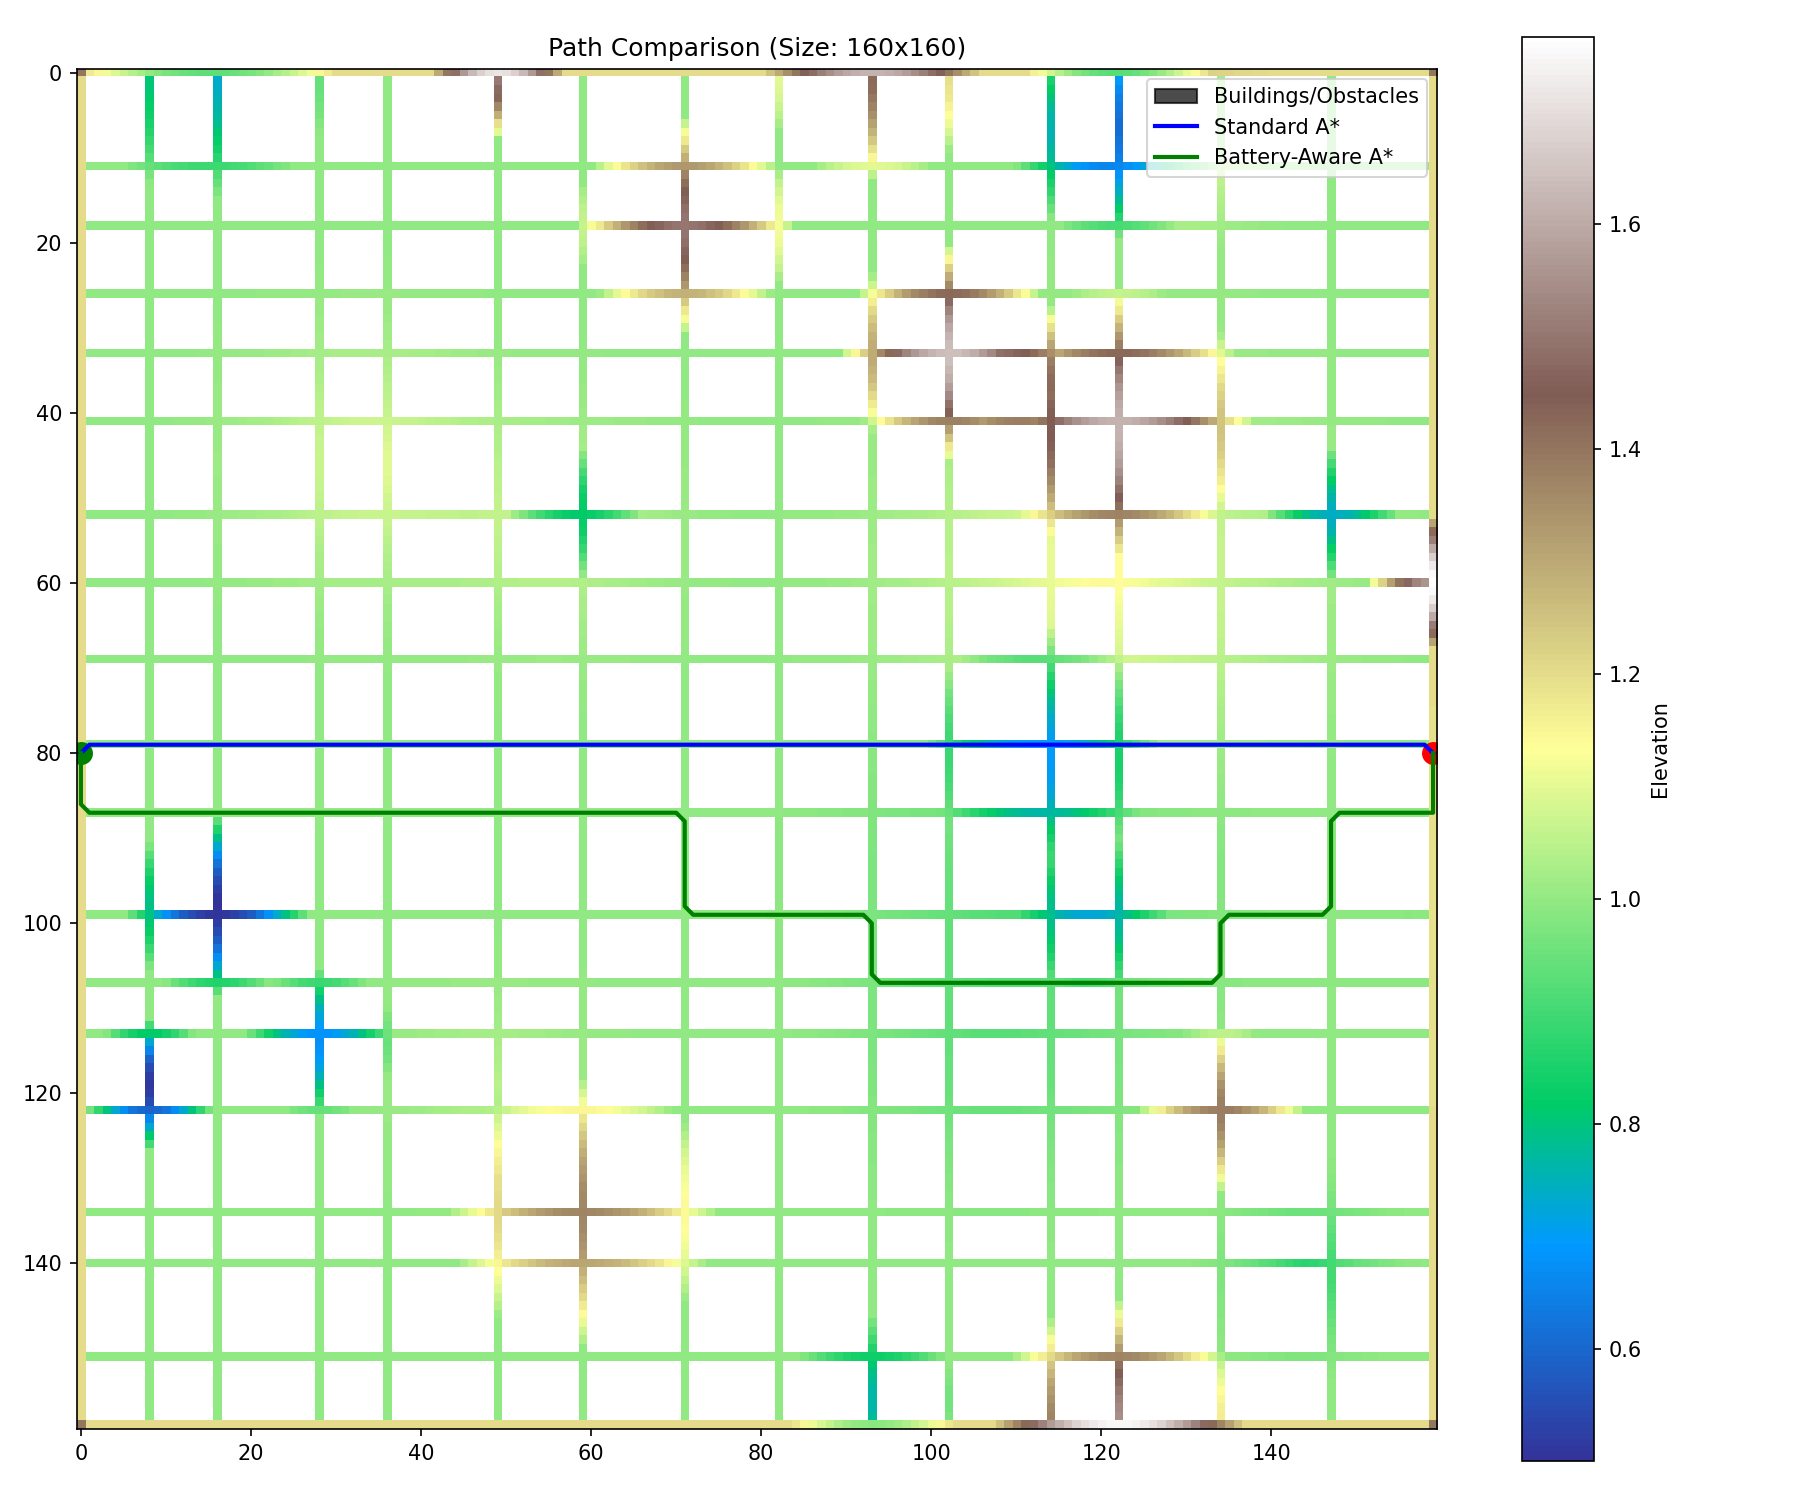
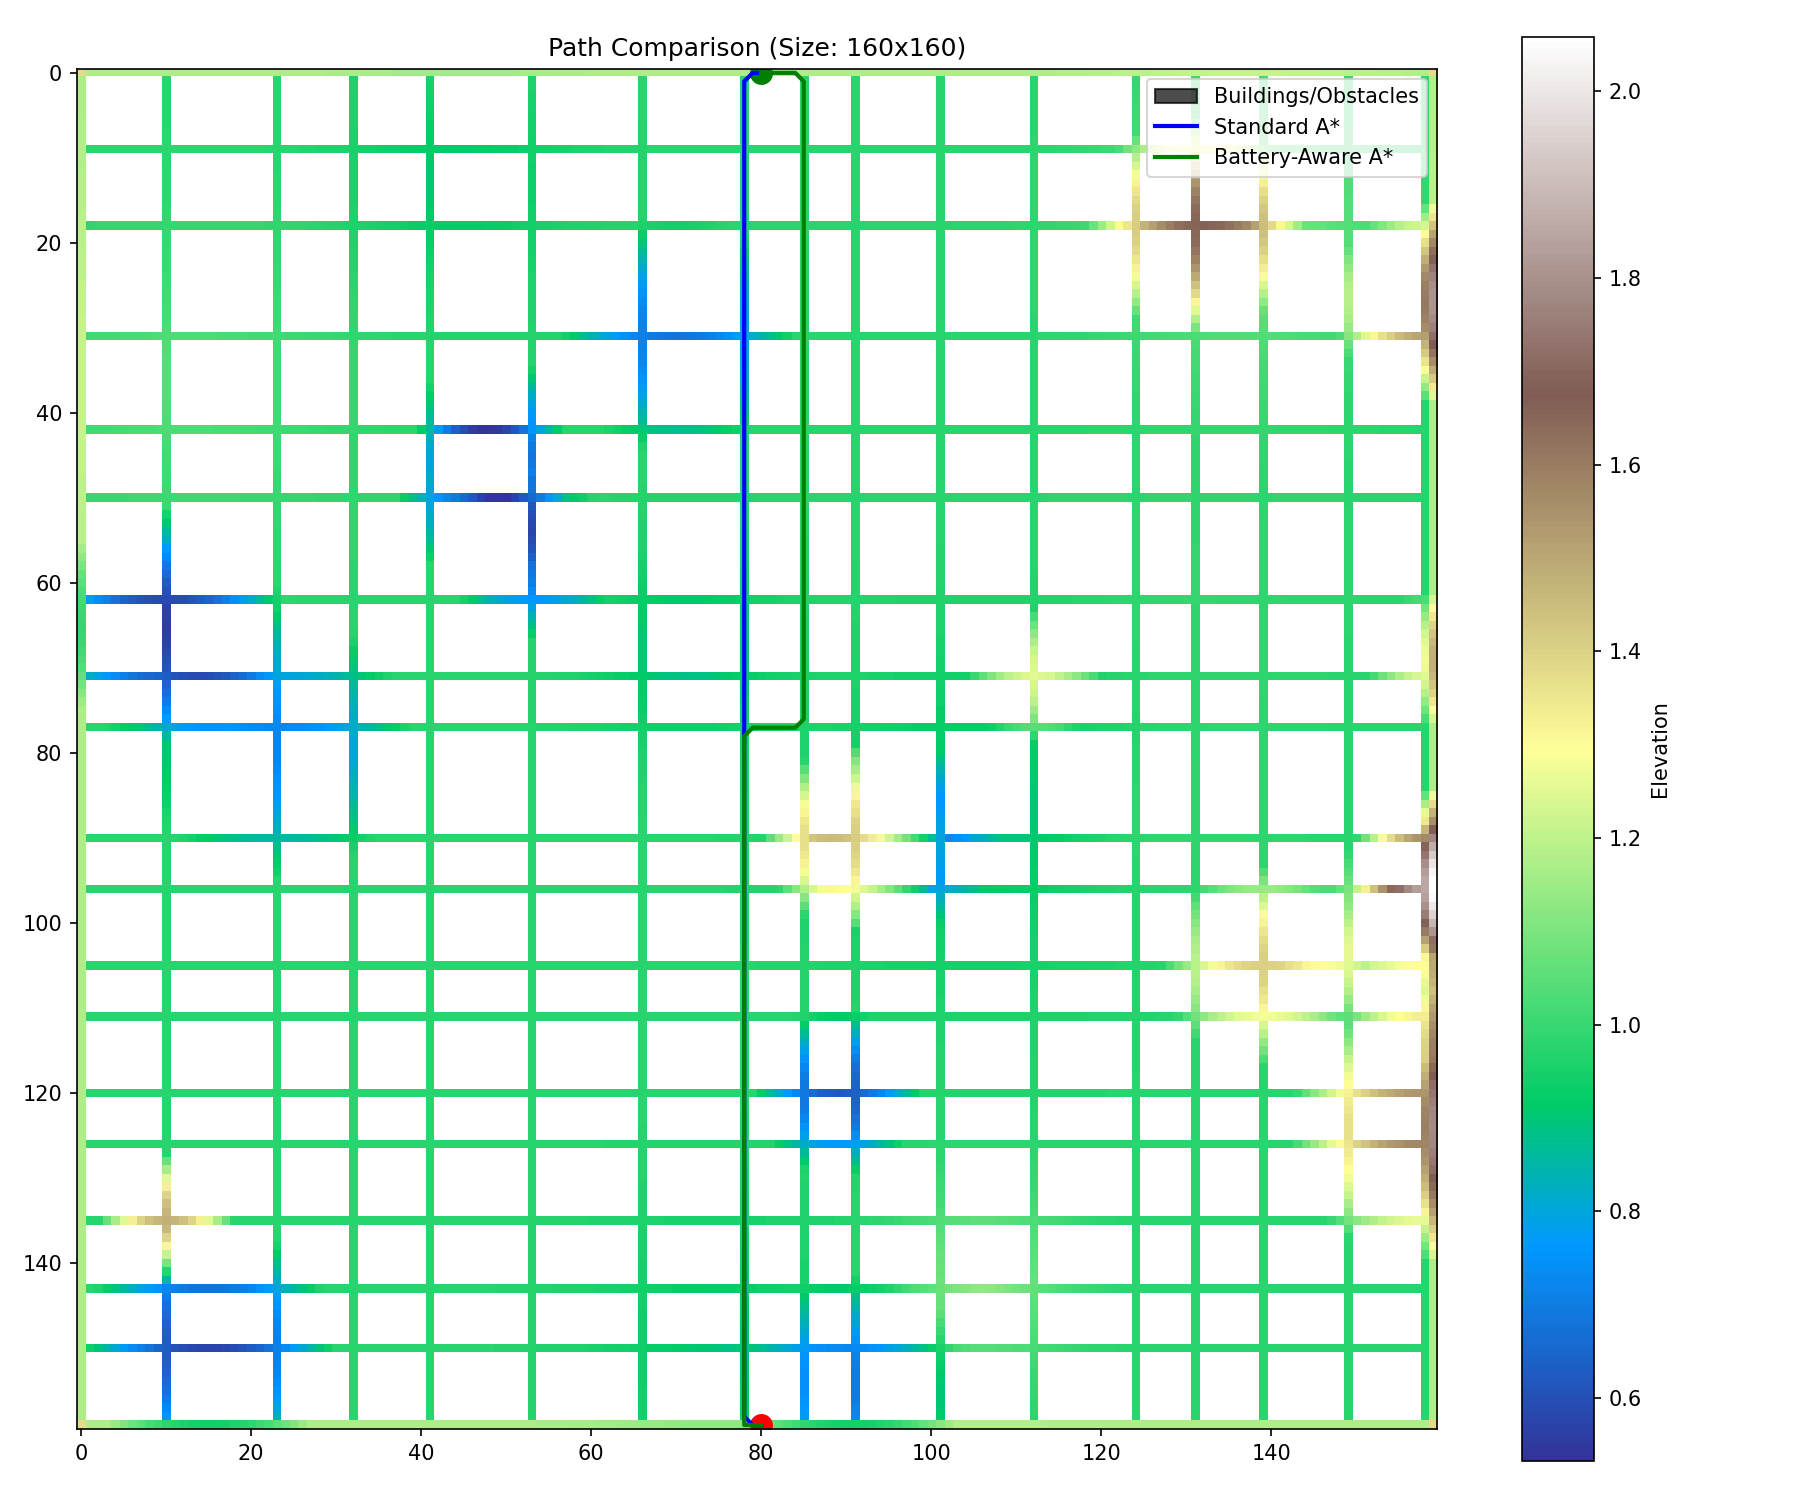
.

Changed region(s): [[0.0311, 0.0307, 0.8089, 0.9507]]

diff --git a/main.py b/main.py
@@ -3,10 +3,152 @@ import os
 from simulation import run_simulation
 from visualization import create_performance_charts, create_summary_chart
 
+def test_improved_heuristic():
+    """Run a simple test to verify the improved energy-based heuristic"""
+    from map import Map
+    from battery import LiFePO4Battery
+    from astar import standard_astar, battery_aware_astar
+    
+    print("\nTesting improved energy-based heuristic...")
+    print("====================================")
+    
+    # Create a small test map
+    map_size = 50
+    test_map = Map(map_size)
+    test_map.generate_city_map(elevation_variance=0.7)  # Use higher elevation variance for clear differences
+    
+    # Get start and goal positions
+    start = test_map.start_point
+    goal = test_map.end_point
+    
+    print(f"Map size: {map_size}x{map_size}")
+    print(f"Start: {start}, Goal: {goal}")
+    
+    # Run standard A*
+    print("Running standard A*...")
+    standard_path, standard_distance = standard_astar(test_map, start, goal)
+    
+    if standard_path:
+        print(f"Standard A* found path with {len(standard_path)} nodes and distance {standard_distance:.2f}")
+    else:
+        print("Standard A* found no path")
+    
+    # Test with different battery capacities to showcase the difference
+    for capacity in [200, 300, 400]:
+        print(f"\nTesting with battery capacity: {capacity} Wh")
+        
+        # Run battery-aware A* with improved heuristic
+        print("Running battery-aware A* with energy-based heuristic...")
+        battery = LiFePO4Battery(capacity)
+        battery_path, battery_energy, battery_remaining = battery_aware_astar(
+            test_map, start, goal, battery)
+        
+        if battery_path:
+            print(f"Battery-aware A* found path with {len(battery_path)} nodes and energy {battery_energy:.2f}")
+            print(f"Remaining battery charge: {battery_remaining*100:.2f}%")
+            
+            # Compare paths if both algorithms found a path
+            if standard_path:
+                # Run simulation on standard path to get energy consumption
+                from simulation import simulate_path
+                standard_battery = LiFePO4Battery(capacity)
+                standard_success, standard_remaining, _ = simulate_path(
+                    test_map, standard_path, standard_battery)
+                standard_energy = capacity - standard_remaining * capacity
+                
+                print("\nComparison:")
+                print(f"Standard A*: {len(standard_path)} nodes, distance: {standard_distance:.2f}, energy: {standard_energy:.2f}, remaining: {standard_remaining*100:.2f}%")
+                print(f"Battery A*: {len(battery_path)} nodes, energy: {battery_energy:.2f}, remaining: {battery_remaining*100:.2f}%")
+                
+                energy_diff = ((standard_energy - battery_energy) / standard_energy * 100) if standard_energy > 0 else 0
+                print(f"Energy savings with battery-aware A*: {energy_diff:.2f}%")
+                
+                # Visualize the comparison
+                output_dir = "results"
+                os.makedirs(output_dir, exist_ok=True)
+                test_map.visualize(start, goal, standard_path, battery_path, 
+                                 f"{output_dir}/test_comparison_c{capacity}.png")
+        else:
+            print("Battery-aware A* found no path with this battery capacity")
+    
+    print("\nTest completed. Check the 'results' directory for visualizations.")
+
+def test_physics_model():
+    """Test the physics-based model without terrain factors"""
+    print("\nTesting physics-based battery model (no terrain factors)...")
+    print("===================================================")
+    
+    # Create a small test map with higher elevation variance
+    map_size = 50
+    test_map = Map(map_size)
+    test_map.generate_city_map(elevation_variance=0.7)  # Higher variance for clearer results
+    
+    # Get start and goal positions
+    start = test_map.start_point
+    goal = test_map.end_point
+    
+    print(f"Map size: {map_size}x{map_size}")
+    print(f"Start: {start}, Goal: {goal}")
+    
+    # Run standard A*
+    print("Running standard A*...")
+    standard_path, standard_distance = standard_astar(test_map, start, goal)
+    
+    if standard_path:
+        print(f"Standard A* found path with {len(standard_path)} nodes and distance {standard_distance:.2f}")
+    else:
+        print("Standard A* found no path")
+    
+    # Test with battery capacity that should work for both algorithms
+    capacity = 350
+    print(f"\nTesting with battery capacity: {capacity} Wh")
+    
+    # Run battery-aware A* with improved heuristic
+    print("Running battery-aware A* with physics-based model...")
+    battery = LiFePO4Battery(capacity)
+    battery_path, battery_energy, battery_remaining = battery_aware_astar(
+        test_map, start, goal, battery)
+    
+    if battery_path:
+        print(f"Battery-aware A* found path with {len(battery_path)} nodes and energy {battery_energy:.2f}")
+        print(f"Remaining battery charge: {battery_remaining*100:.2f}%")
+        
+        # Compare paths if both algorithms found a path
+        if standard_path:
+            # Run simulation on standard path to get energy consumption
+            from simulation import simulate_path
+            standard_battery = LiFePO4Battery(capacity)
+            standard_success, standard_remaining, _ = simulate_path(
+                test_map, standard_path, standard_battery)
+            standard_energy = capacity - standard_remaining * capacity
+            
+            print("\nComparison:")
+            print(f"Standard A*: {len(standard_path)} nodes, distance: {standard_distance:.2f}, energy: {standard_energy:.2f}, remaining: {standard_remaining*100:.2f}%")
+            print(f"Battery A*: {len(battery_path)} nodes, energy: {battery_energy:.2f}, remaining: {battery_remaining*100:.2f}%")
+            
+            energy_diff = ((standard_energy - battery_energy) / standard_energy * 100) if standard_energy > 0 else 0
+            print(f"Energy savings with physics-based model: {energy_diff:.2f}%")
+            
+            # Visualize the comparison
+            output_dir = "results"
+            os.makedirs(output_dir, exist_ok=True)
+            test_map.visualize(start, goal, standard_path, battery_path, 
+                             f"{output_dir}/physics_model_comparison.png")
+    else:
+        print("Battery-aware A* found no path with this battery capacity")
+    
+    print("\nPhysics model test completed. Check the 'results' directory for visualizations.")
+
 def main():
     # Create output directory if it doesn't exist
     output_dir = "results"
     os.makedirs(output_dir, exist_ok=True)
+    
+    # Test the improved heuristic first
+    test_improved_heuristic()
+    
+    # Test the physics-based model (without terrain factors)
+    test_physics_model()
     
     # Set simulation parameters with fewer map sizes for faster execution
     map_sizes = [80, 120, 160] 

diff --git a/astar.py b/astar.py
@@ -61,8 +61,85 @@ def standard_astar(map_data, start, goal):
     # No path found
     return None, float('inf')
 
+def energy_heuristic(map_data, current, goal, battery_state):
+    """
+    Battery-aware energy heuristic function that estimates the minimum energy required
+    to reach the goal from the current position.
+    
+    This heuristic considers:
+    - Direct distance to goal
+    - Elevation difference between current position and goal
+    - Current battery state
+    
+    Returns an admissible (never overestimating) energy estimate.
+    """
+    # Calculate direct Euclidean distance to goal
+    direct_distance = euclidean_distance(current, goal)
+    
+    # Get current and goal elevations
+    current_elevation = map_data.elevation[current[0]][current[1]]
+    goal_elevation = map_data.elevation[goal[0]][goal[1]]
+    
+    # Calculate elevation difference
+    elevation_diff = goal_elevation - current_elevation
+    
+    # Base energy consumption estimate (flat terrain)
+    base_consumption = 1.0 * direct_distance
+    
+    # Get current state of charge and efficiency
+    current_soc = battery_state.get_state_of_charge()
+    current_efficiency = battery_state.get_efficiency_at_soc(current_soc)
+    
+    # Estimate energy for elevation change
+    # This is an optimistic estimate that considers:
+    # 1. Uphill segments will require additional energy
+    # 2. Downhill segments could potentially regenerate energy
+    if elevation_diff > 0:  # Going uphill overall
+        # Calculate optimistic slope angle
+        slope_rad = math.atan2(elevation_diff, direct_distance)
+        
+        # Calculate gravitational force component
+        gravitational_component = battery_state.robot_mass * 9.81 * math.sin(slope_rad)
+        
+        # Energy for elevation change (minimum required work against gravity)
+        elevation_energy = gravitational_component * direct_distance / current_efficiency
+        total_energy = base_consumption + max(0, elevation_energy)
+    else:  # Flat or downhill overall
+        # For downhill, we'll be optimistic and assume some energy recovery
+        # The actual path may not be able to utilize all potential recovery
+        # but the heuristic should be optimistic to remain admissible
+        slope_rad = math.atan2(elevation_diff, direct_distance)
+        gravitational_component = battery_state.robot_mass * 9.81 * math.sin(slope_rad)
+        
+        # Estimate potential energy recovery (with regeneration efficiency)
+        recovery = max(0, -gravitational_component * direct_distance * battery_state.regen_efficiency)
+        
+        # Net energy consumption with optimistic recovery
+        total_energy = max(0, base_consumption - recovery)
+    
+    # Ensure the heuristic never overestimates (must be admissible)
+    # The multiplier here is a safety factor; it can be tuned 
+    # but must be <= 1.0 to ensure admissibility
+    admissibility_factor = 0.9
+    
+    return total_energy * admissibility_factor
+
 def battery_aware_astar(map_data, start, goal, battery):
-    """Battery-aware A* algorithm"""
+    """
+    Battery-aware A* algorithm using a physics-based energy heuristic.
+    
+    This version uses energy as the consistent unit for both:
+    - g(n): Actual energy consumed from start to current node
+    - h(n): Estimated minimum energy required to reach the goal
+    
+    This creates a consistent, energy-optimizing pathfinding algorithm
+    that considers battery state and elevation changes using pure physics principles.
+    Energy calculations account for:
+    - Base movement energy consumption
+    - Work against gravity for uphill segments
+    - Potential energy recovery for downhill segments
+    - Battery efficiency based on state of charge
+    """
     open_set = PriorityQueue()
     open_set.put((0, 0, start))  # (f_score, counter, position)
     
@@ -78,8 +155,9 @@ def battery_aware_astar(map_data, start, goal, battery):
     # Battery state at each node
     battery_state = {start: battery.clone()}
     
-    # Estimated total cost from start to goal through current node
-    f_score = {start: euclidean_distance(start, goal)}
+    # Calculate initial f_score using the energy-based heuristic
+    initial_estimate = energy_heuristic(map_data, start, goal, battery_state[start])
+    f_score = {start: initial_estimate}
     
     # For tracking explored nodes
     open_set_hash = {start}
@@ -134,8 +212,10 @@ def battery_aware_astar(map_data, start, goal, battery):
                 new_battery.update_state(energy_consumption)
                 battery_state[neighbor] = new_battery
                 
-                # Update f_score with heuristic
-                f_score[neighbor] = tentative_g_score + euclidean_distance(neighbor, goal)
+                # Update f_score using the energy-based heuristic
+                # Both g_score and heuristic are now in the same units (energy)
+                energy_estimate = energy_heuristic(map_data, neighbor, goal, battery_state[neighbor])
+                f_score[neighbor] = tentative_g_score + energy_estimate
                 
                 if neighbor not in open_set_hash:
                     counter += 1

diff --git a/battery.py b/battery.py
@@ -66,7 +66,7 @@ class LiFePO4Battery:
             current_elevation: Elevation at current position
             next_elevation: Elevation at next position
             distance: Distance between positions
-            terrain_type: Optional terrain type information (0=flat, 1=uphill, 2=downhill)
+            terrain_type: Optional terrain type information (kept for backward compatibility but not used)
             
         Returns:
             Energy consumption in watt-hours
@@ -85,22 +85,14 @@ class LiFePO4Battery:
         current_soc = self.get_state_of_charge()
         current_efficiency = self.get_efficiency_at_soc(current_soc)
         
-        # Apply terrain-specific factors (if terrain type is provided)
-        terrain_factor = 1.0
-        if terrain_type is not None:
-            if terrain_type == 1:  # Uphill
-                terrain_factor = 1.5
-            elif terrain_type == 2:  # Downhill
-                terrain_factor = 0.7
-        
         if elevation_diff > 0:  # Uphill
-            # Energy required to overcome gravitational force
-            work = gravitational_force * distance * terrain_factor
+            # Energy required to overcome gravitational force - purely physics-based
+            work = gravitational_force * distance
             # Add base consumption and apply efficiency
             total_consumption = (base_consumption + work) / current_efficiency
         else:  # Downhill or flat
-            # Potential energy recovery from downhill (if any)
-            recovery = max(0, -gravitational_force * distance * self.regen_efficiency * terrain_factor)
+            # Potential energy recovery from downhill (if any) - purely physics-based
+            recovery = max(0, -gravitational_force * distance * self.regen_efficiency)
             # Net consumption (with potential regeneration)
             total_consumption = max(0, base_consumption - recovery)
         

diff --git a/map.py b/map.py
@@ -4,7 +4,7 @@ import random
 import math
 
 class Map:
-    def __init__(self, size, obstacle_density=0.2, elevation_variance=0.3):
+    def __init__(self, size, obstacle_density=0.2, elevation_variance=0.7):
         self.size = size
         # Grid representation: 0 = road (traversable), 1 = obstacle, 2 = empty space (non-traversable)
         self.grid = np.zeros((size, size), dtype=int)
